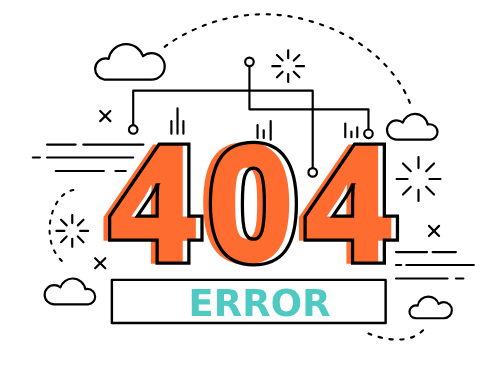
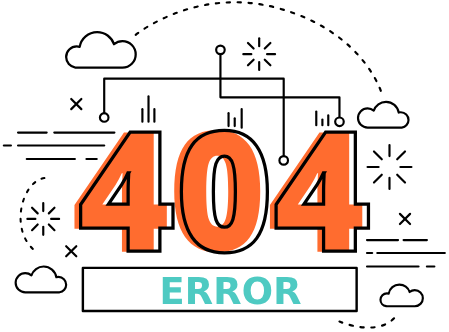
done

Changed region(s): [[0.0, 0.0904, 0.9978, 0.994], [0.3118, 0.0, 0.8419, 0.2711], [0.1559, 0.1205, 0.1871, 0.1506]]

diff --git a/client/src/app/api/vnpay/payment/route.ts b/client/src/app/api/vnpay/payment/route.ts
@@ -1,55 +1,49 @@
 import { NextRequest, NextResponse } from "next/server";
-import crypto from "crypto";
-import { formatDate } from "@/utils/formatDate"; // bạn đã có sẵn
+
+const {
+  VNPay,
+  ignoreLogger,
+  ProductCode,
+  VnpLocale,
+  dateFormat,
+} = require("vnpay");
 
 export async function POST(req: NextRequest) {
   try {
     const { total, orderCode } = await req.json();
 
-    const now = new Date();
-    const expire = new Date(now.getTime() + 15 * 60 * 1000); // 15 phút
-    const vnp_Amount = (total * 100).toString();
-
-    const vnp_Params: Record<string, string> = {
-      vnp_Version: "2.1.0",
-      vnp_Command: "pay",
-      vnp_TmnCode: process.env.VNPAY_TMN_CODE!,
-      vnp_Amount,
-      vnp_CurrCode: "VND",
-      vnp_TxnRef: orderCode.toString(),
-      vnp_OrderInfo: `Thanh toán đơn hàng ${orderCode}`,
-      vnp_OrderType: "other",
-      vnp_Locale: "vn",
-      vnp_ReturnUrl: `${process.env.NEXTAUTH_URL}/api/vnpay/check-payment`,
-      vnp_CreateDate: formatDate(now),
-      vnp_ExpireDate: formatDate(expire),
-      vnp_IpAddr: "127.0.0.1",
-    };
-
-    const sortedParams = Object.keys(vnp_Params)
-      .sort()
-      .reduce((acc: Record<string, string>, key) => {
-        acc[key] = vnp_Params[key];
-        return acc;
-      }, {});
-
-    const signData = Object.entries(sortedParams)
-      .map(([key, val]) => `${key}=${encodeURIComponent(val)}`)
-      .join("&");
-
-    const hmac = crypto.createHmac("sha512", process.env.VNPAY_SECURE_SECRET!);
-    const secureHash = hmac
-      .update(Buffer.from(signData, "utf-8"))
-      .digest("hex");
-
-    const payUrl = `${process.env.VNPAY_URL}?${signData}&vnp_SecureHash=${secureHash}`;
-
-    return NextResponse.json({
-      message: "Tạo URL thanh toán thành công",
-      payUrl,
+    const vnpay = await new VNPay({
+      tmnCode: process.env.VNPAY_TMN_CODE!,
+      secureSecret: process.env.VNPAY_SECURE_SECRET!,
+      vnpayHost: process.env.VNPAY_URL!,
+      testMode: true,
+      hashAlgorithm: "SHA512",
+      enableLog: true,
+      loggerFn: ignoreLogger,
     });
+
+    const now = new Date();
+    const expire = new Date(now.getTime() + 90 * 60 * 1000); // 1 tiếng rưỡi
+
+    const resVnpay = vnpay.buildPaymentUrl({
+      vnp_Amount: total,
+      vnp_IpAddr: "127.0.0.1",
+      vnp_TxnRef: orderCode,
+      vnp_OrderInfo: orderCode,
+      vnp_OrderType: ProductCode.Other,
+      vnp_ReturnUrl: `${process.env.NEXTAUTH_URL}/api/vnpay/notification`,
+      vnp_Locale: VnpLocale.VN,
+      vnp_CreateDate: dateFormat(now),
+      vnp_ExpireDate: dateFormat(expire),
+    });
+
+    return NextResponse.json(
+      {
+        payUrl: resVnpay,
+      },
+      { status: 201 }
+    );
   } catch (error) {
-    console.error("VNPay Payment Error:", error);
     return NextResponse.json(
       { message: "Lỗi khi tạo URL thanh toán VNPay" },
       { status: 500 }

diff --git a/client/src/components/Cart/CartItem.tsx b/client/src/components/Cart/CartItem.tsx
@@ -323,7 +323,7 @@ function CartItem({ cart }: Props) {
             </div>
           </form>
         ) : (
-          <div className="flex justify-center items-center h-[70vh]">
+          <div className="flex justify-center items-center h-[60vh]">
             <div className="flex flex-col justify-center items-center gap-[15px]">
               <Image
                 Src={"/assets/other/empty-cart.png"}

diff --git a/client/src/components/OrderSuccess.tsx b/client/src/components/OrderSuccess.tsx
@@ -9,7 +9,7 @@ function OrderSuccess() {
             <Image
               Src={"/assets/other/successfully.png"}
               Alt={""}
-              ClassName={"w-[80px]"}
+              ClassName={"w-[100px]"}
               loadingType="eager"
             />
             <h4 className="uppercase text-center">Đặt đơn hàng thành công</h4>

diff --git a/client/src/app/not-found.tsx b/client/src/app/not-found.tsx
@@ -11,7 +11,7 @@ function NotFoundPage() {
               <Image
                 Src={"/assets/other/404-error.png"}
                 Alt={""}
-                ClassName={"w-[220px]"}
+                ClassName={"w-[230px]"}
                 loadingType="eager"
               />
 

diff --git a/admin/README.md b/admin/README.md
@@ -1,3 +1,6 @@
+B1: npm install
+
+B2: Cài đặt .env.local
 NEXTAUTH_URL=http://localhost:3001
 NEXTAUTH_SECRET=Ar5LTQD1ogGSzlkbvOxEbiNWvEauOM+JnKYptltW/s4
 MONGO_URI=mongodb+srv://quanglam:u3nUqOkJNAXTzShM@fashion.woppwpv.mongodb.net/fashion?retryWrites=true&w=majority&appName=fashion
@@ -5,3 +8,5 @@ MONGO_URI=mongodb+srv://quanglam:u3nUqOkJNAXTzShM@fashion.woppwpv.mongodb.net/fa
 CLOUDINARY_CLOUD_NAME=dpj5pgpio
 CLOUDINARY_API_KEY=555918594727174
 CLOUDINARY_API_SECRET=c-6uF0zMMgFWgypBaHx5C0FxMmk
+
+B3: Chạy npm run dev

diff --git a/client/README.md b/client/README.md
@@ -13,6 +13,10 @@ MONGO_URI=mongodb+srv://quanglam:u3nUqOkJNAXTzShM@fashion.woppwpv.mongodb.net/fa
 MOMO_PARTNERCODE=MOMO
 MOMO_ACCESSKEY=F8BBA842ECF85
 MOMO_SECRETKEY=K951B6PE1waDMi640xX08PD3vg6EkVlz
-MOMO_URL=https://test-payment.momo.vn/v2/gateway/api
+MOMO_URL=https://test-payment.momo.vn/v2/gateway/api/create
+
+VNPAY_TMN_CODE=GS1I559X
+VNPAY_SECURE_SECRET=WWS2Y89FTXLSQKVH54CERAMWNAJMNUB5
+VNPAY_URL=https://sandbox.vnpayment.vn/merchantv2
 
 B3: Chạy npm run dev
